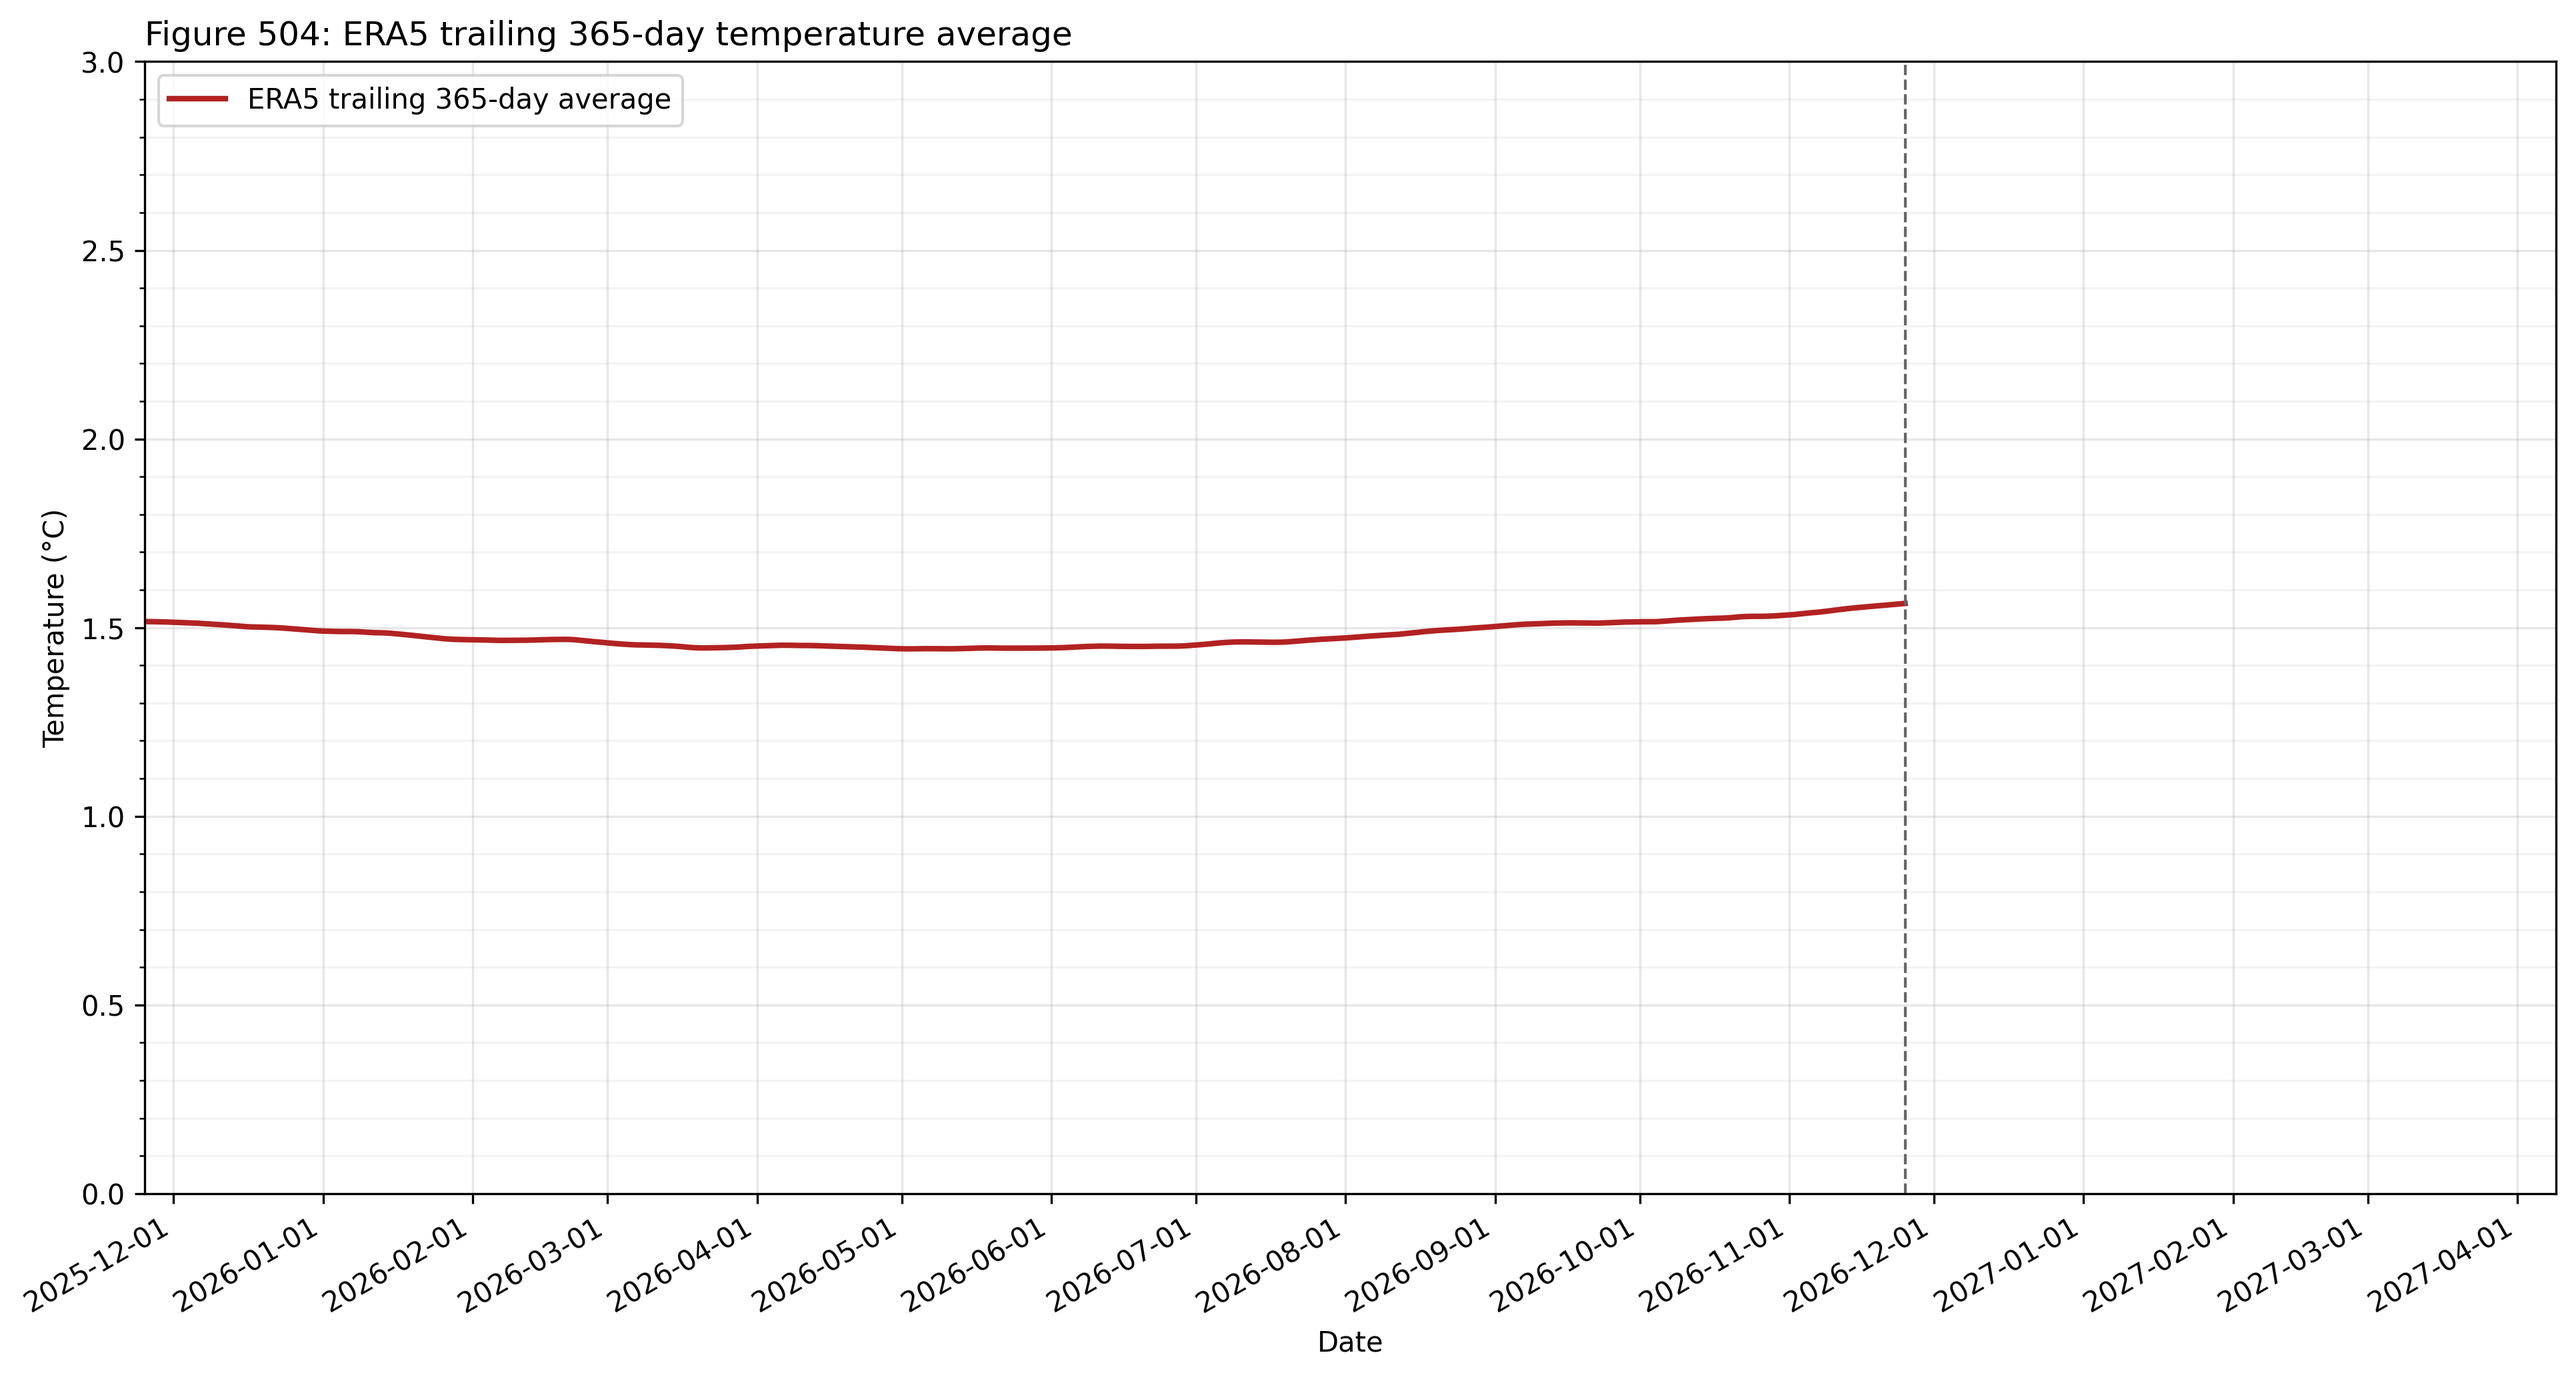
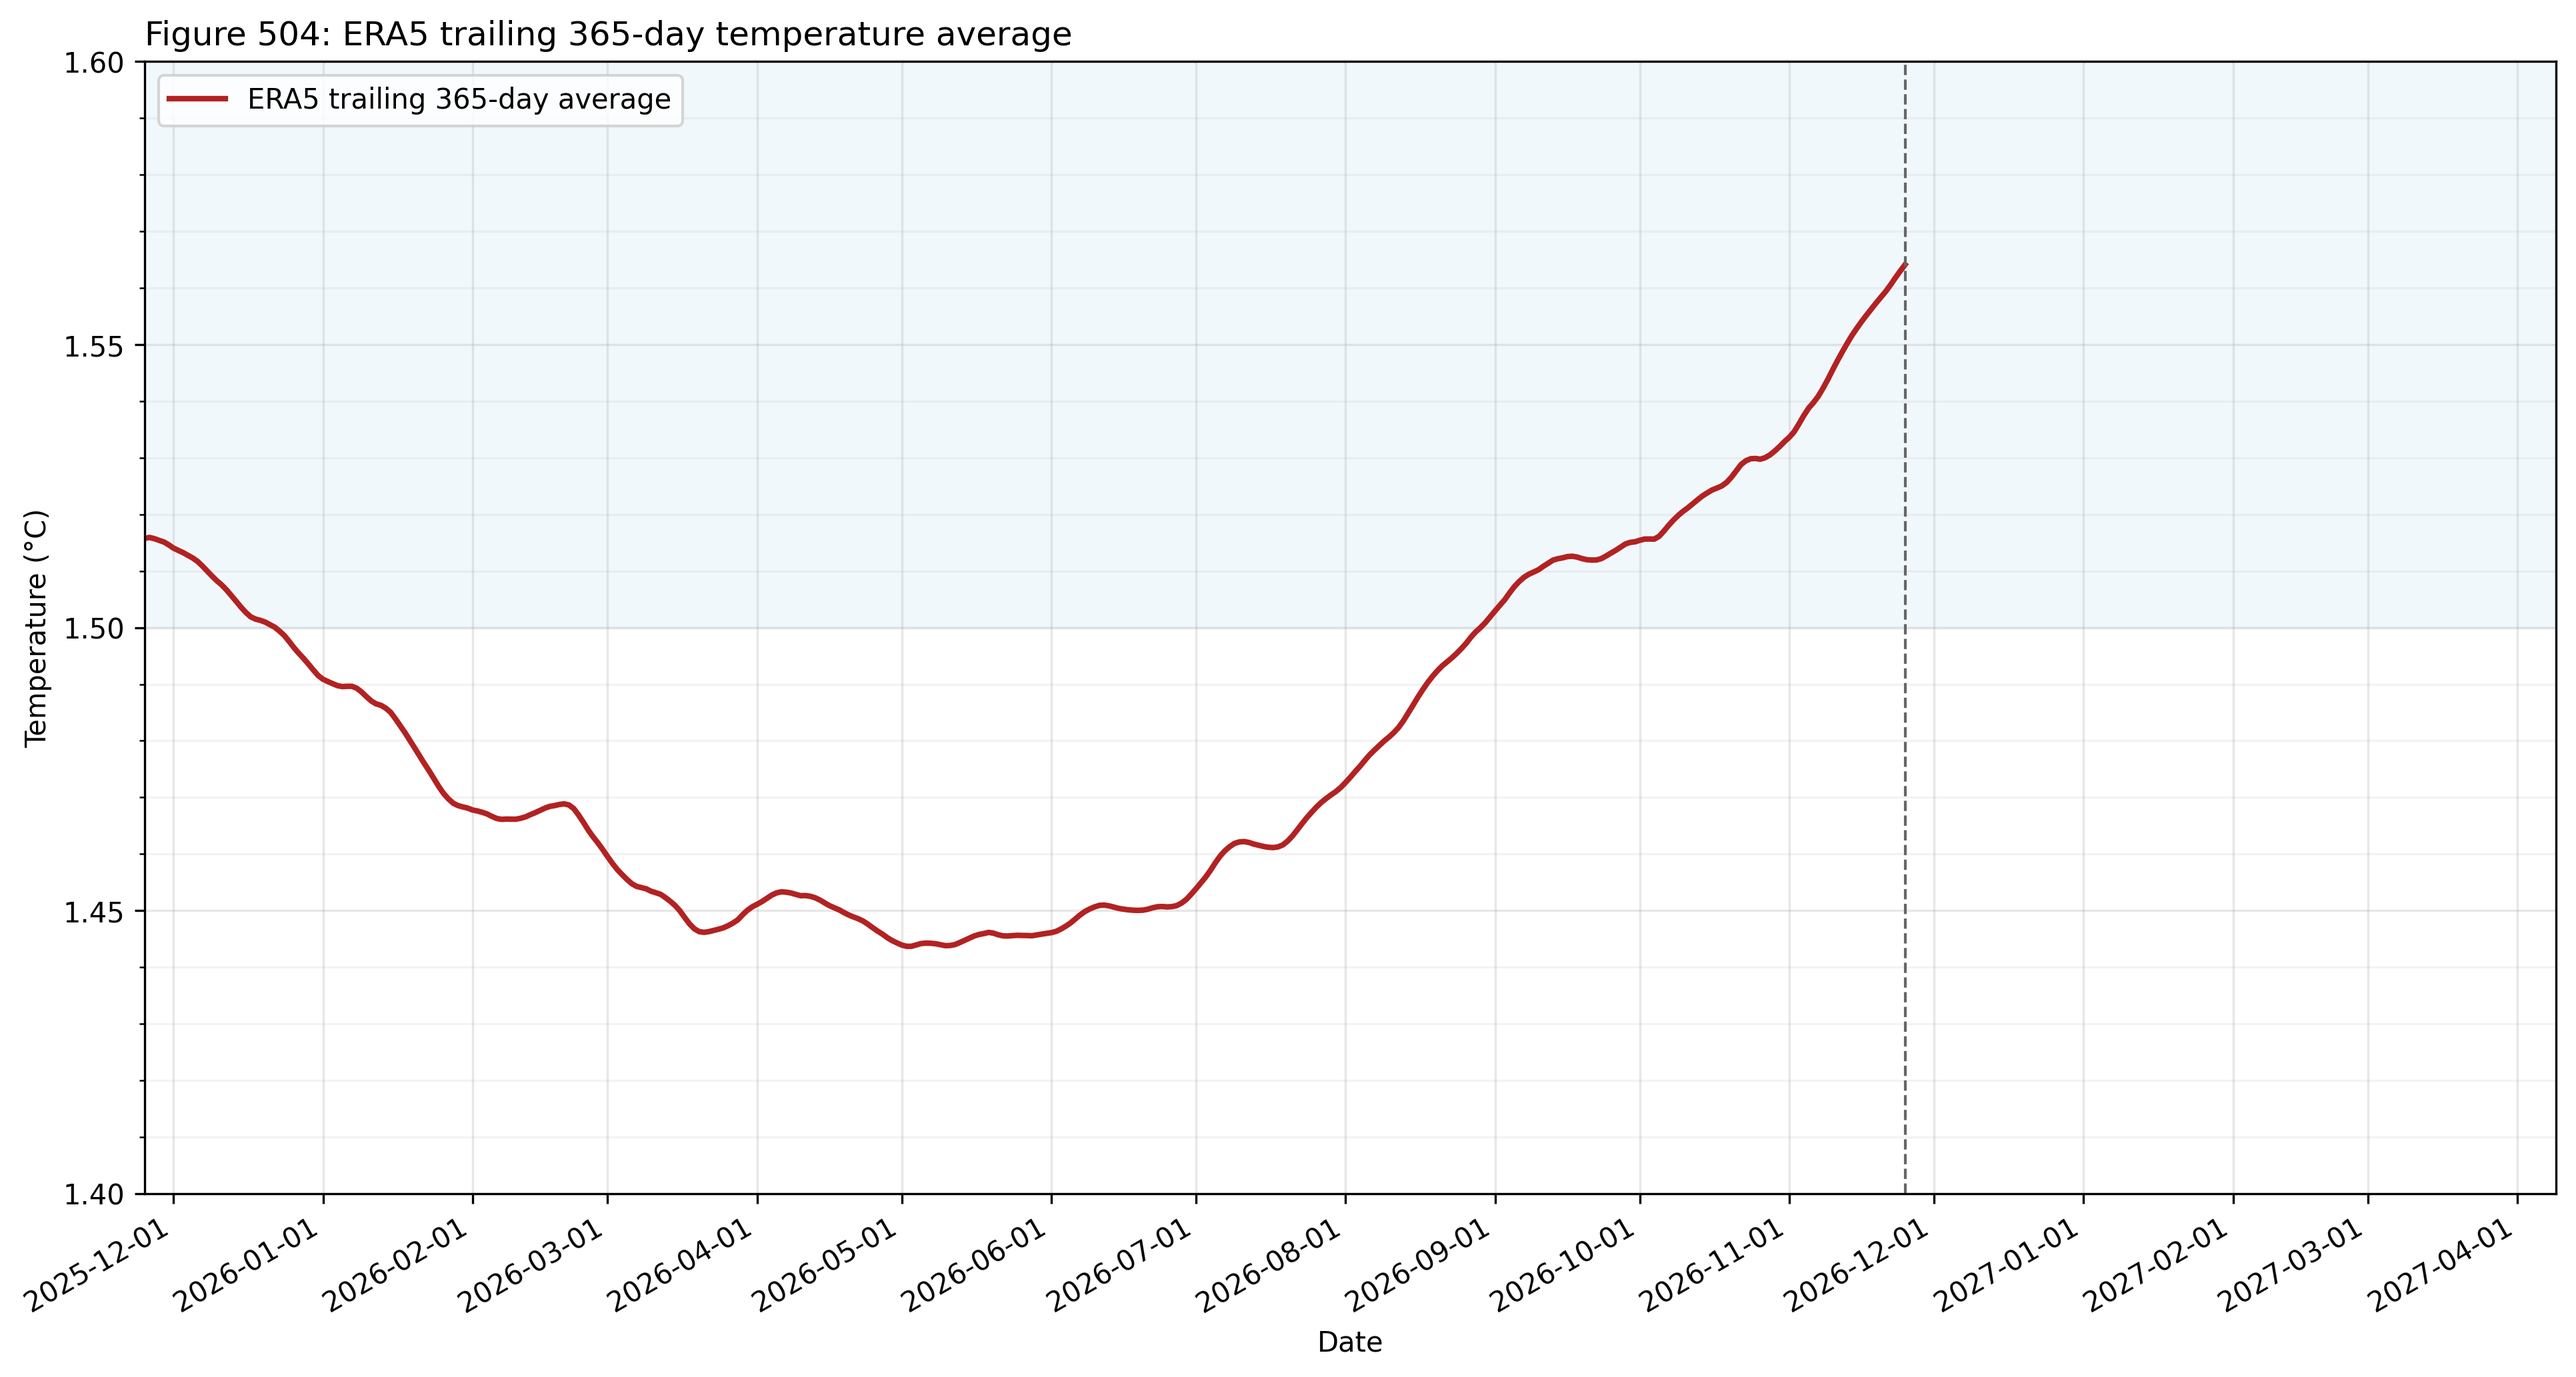
5P18" #output_plot = "temp/figure4_era5_temp_last_365_days.png"

diff --git a/config.py b/config.py
@@ -22,7 +22,7 @@ figure303 = 0 # 3 , 4
 figure404 = 0 # 3 , 12, 24, 36 , 48 60 72 96   409 48=create quadratic-fit figure for matching play_61_EEI
 figure504 = 4 # 1=create ERA5 trailing 365-day temperature figure
 figure4_9 = 5 # write figure 9 and use the 48 month averaging
-figure505 = 1095  # 1461, 1095, 720, 365, 24  1826 3650  # https://sites.ecmwf.int/data/climatepulse/data/series/era5_daily_series_2t_global.csv
+figure505 = 0  # 1095 , 1461, 1095, 720, 365, 24  1826 3650  # https://sites.ecmwf.int/data/climatepulse/data/series/era5_daily_series_2t_global.csv
 figure505_offset = 0.90 # 0.91 ClimateCasino 0.90 Zeke, Rahmstorf..Niko Freudsheim apply its 0.88 °C offset.
 figure505_days_linear_fit = 720 # 10 years 3652, 1461, 1095, 720, 365,   1826
 
@@ -305,6 +305,8 @@ x_303min = 200   # 125  figure303 CO2 x axis
 x_303max = 600  # 1500 figure303 CO2 x axis 
 y_303min = 10  # 5 13 figure303 Temperature y axis left
 y_303max = 25 # 30 17 figure303 Temperature y axis left
+y_504min = 1.4 # manimum 0°C
+y_504max = 1.6 # maximum 4°C
 y_505min = 0 # manimum 0°C
 y_505max = 3 # maximum 4°C
 

diff --git a/temp.py b/temp.py
@@ -123,13 +123,20 @@ def fig_504_era5_temp_last_365_days():
     ax.set_xlabel("Date")
     ax.set_ylabel("Temperature (°C)")
     ax.set_xlim(plot_start_date, plot_end_date)
-    ax.set_ylim(y_505min, y_505max)
+    # 504.   scale the y axis
+    ax.set_ylim(y_504min, y_504max)
+
+    # 504.225 temperature band 1.5 to 2.0 °C
+    ax.axhspan(1.5, 1.6, color="#2196D19A", alpha=0.06, zorder=0)
+
     ax.xaxis.set_major_locator(mdates.MonthLocator(interval=1))
     ax.xaxis.set_major_formatter(mdates.DateFormatter("%Y-%m-%d"))
-    ax.yaxis.set_major_locator(MultipleLocator(0.5))
-    ax.yaxis.set_minor_locator(MultipleLocator(0.1))
+    ax.yaxis.set_major_locator(MultipleLocator(0.05))
+    ax.yaxis.set_minor_locator(MultipleLocator(0.01))
+
     ax.grid(True, which="major", alpha=0.3)
     ax.grid(True, which="minor", axis="y", alpha=0.15)
+
     ax.axvline(latest_era5_date, color="0.4", linestyle="--", linewidth=1)
     ax.legend(loc="upper left")
     fig.autofmt_xdate()

diff --git a/main.py b/main.py
@@ -1,5 +1,5 @@
 # main.py
-v = "5P17" #output_plot = "temp/figure4_era5_temp_last_365_days.png"
+v = "5P18" #output_plot = "temp/figure4_era5_temp_last_365_days.png"
 #
 # https://github.com/Boettcher1960/5_CO2_EEI_T
 # ocean stratification https://bsky.app/profile/thomas-boettcher.bsky.social/post/3mj7zx7fzsc26
